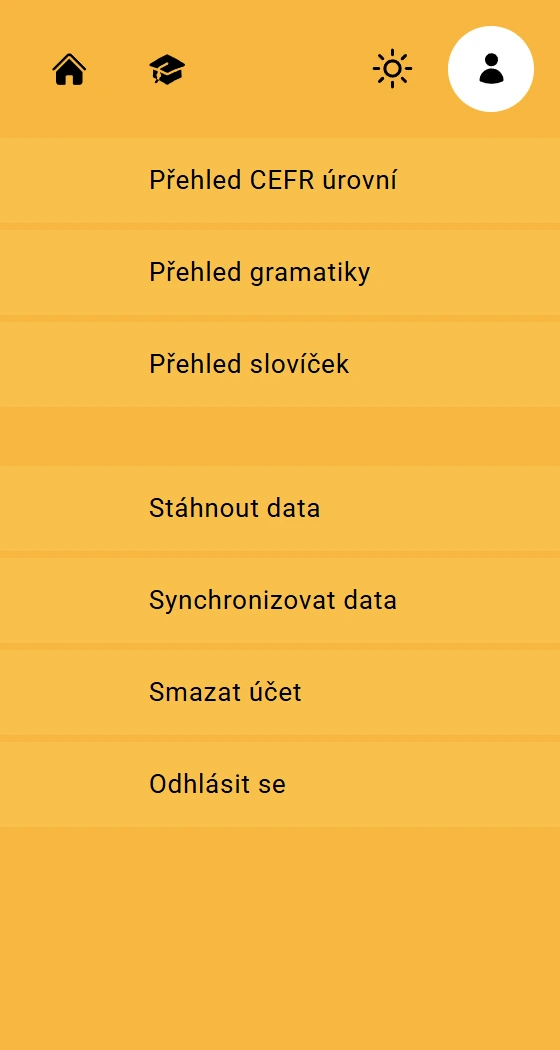
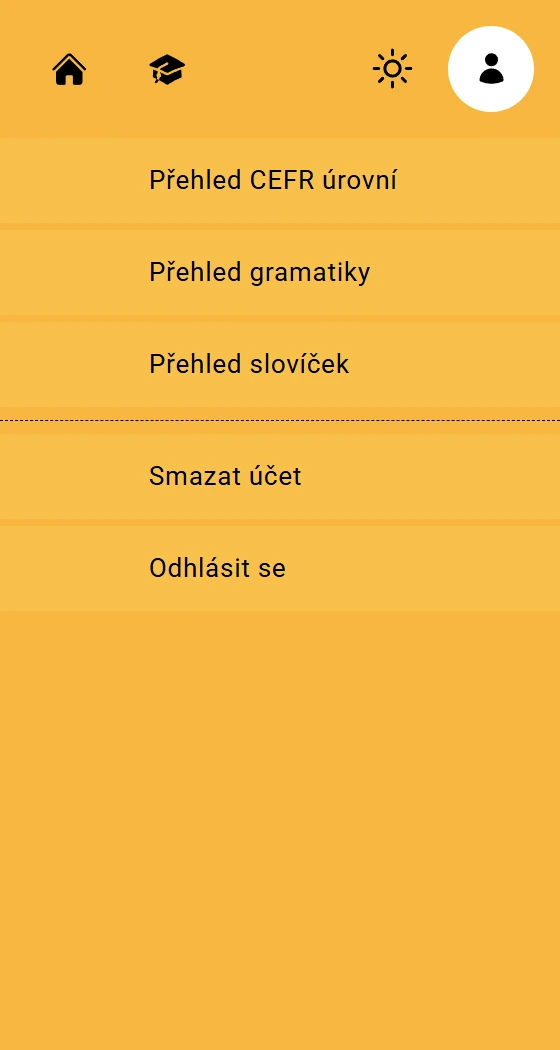
refactor: improve text clarity and formatting in Guide component

Changed region(s): [[0.2732, 0.4267, 0.7286, 0.579], [0.2732, 0.64, 0.5464, 0.6705], [0.2732, 0.7314, 0.5161, 0.7619]]

diff --git a/frontend/src/pages/Guide.tsx b/frontend/src/pages/Guide.tsx
@@ -12,15 +12,15 @@ export default function Guide(): JSX.Element {
       <h1 className="text-center">Návod</h1>
       <section>
         <p className="text-center">
-          Běžné učení jazyků používá příliš mnoho teorie a málo praxe. Tato aplikace je naopak
-          zaměřená na dril, na velké množství naposlouchaných a vyslovených opakování.
+          Běžné učení jazyků používá příliš mnoho teorie a málo praxe. Tato aplikace je zaměřena na
+          dril, na velké množství naposlouchaných a vyslovených opakování.
         </p>
       </section>
       <section>
         <h2>Používání</h2>
         <p className="text-center">
           Klikněte na tlačítko "Procvičovat" na horní liště a začněte procvičovat. Aplikace vám bude
-          nabízet slovíčka, slovní spojení či věty v ideálním pořadí pro učení. 
+          nabízet slovíčka, slovní spojení či věty v ideálním pořadí pro učení.
         </p>
       </section>
       <section>
@@ -28,11 +28,17 @@ export default function Guide(): JSX.Element {
         <Screenshot src="/screenshots/not-revealed.webp" alt="Ukázka kartičky před odhalením" />
         <p>
           <strong>"dnes / denní cíl"</strong>
-          <span>Doporučený denní počet opakování. Snažte se ho každý den splnit. Ostatní můžete pustit z hlavy.</span>
+          <span>
+            Doporučený denní počet opakování. Snažte se ho každý den splnit. Ostatní můžete pustit z
+            hlavy.
+          </span>
         </p>
         <p>
           <strong>"dokončit"</strong>
-          <span>Položka se nebude nabízet k dalšímu procvičování. Použijte k přeskočení položky, pokud ji již znáte z dřívějška.</span>
+          <span>
+            Položka se nebude nabízet k dalšímu procvičování. Použijte k přeskočení položky, pokud
+            ji již znáte z dřívějška.
+          </span>
         </p>
         <p>
           <strong>"gramatika"</strong>
@@ -44,7 +50,10 @@ export default function Guide(): JSX.Element {
         <Screenshot src="/screenshots/revealed.webp" alt="Ukázka kartičky po odhalení" />
         <p>
           <strong>"neznám"</strong>
-          <span>Sníží skóre dané položky. Položka se nabídne k dalšímu procvičování dříve. Pokud pro vás není znalost zcela automatická, dávejte vždy "neznám".</span>
+          <span>
+            Sníží skóre dané položky. Položka se nabídne k dalšímu procvičování dříve.{' '}
+            <strong>Pokud pro vás není znalost zcela automatická, dávejte vždy "neznám".</strong>
+          </span>
         </p>
         <p>
           <strong>"znám"</strong>
@@ -74,19 +83,10 @@ export default function Guide(): JSX.Element {
           </span>
         </p>
         <p>
-          <strong>"Stáhnout data"</strong>
-          <span>Stáhne všechna data do zařízení, abyste mohli aplikaci používat offline.</span>
-        </p>
-        <p>
-          <strong>"Opravit data"</strong>
-          <span>
-            Aplikace se běžně synchronizuje při každém spuštění, nebo alespoň jednou za 24 hodin. Tato manuální synchronizace je určena pouze pro opravu poškozených dat.
-          </span>
-        </p>
-        <p>
           <strong>"Smazat účet"</strong>
           <span>
-            Smaže uživatelský účet včetně všech vašich dat. V této fázi vývoje je smazání účtu nevratné a data budou nenávratně odstraněna.
+            Smaže uživatelský účet včetně všech vašich dat. V této fázi vývoje je smazání účtu
+            nevratné a data budou nenávratně odstraněna.
           </span>
         </p>
         <p>
@@ -97,19 +97,15 @@ export default function Guide(): JSX.Element {
       <section>
         <h2>Offline</h2>
         <p className="text-center">
-          Ve webové verzi aplikace je pro používání offline nejprve potřeba stáhnout všechna data do zařízení. To provedete v profilu tlačítkem "Stáhnout data".
-        </p>
-        <p className="text-center">
-          Ve stažené aplikaci jsou všechna data již obsažena a aplikace je plně funkční i bez připojení k internetu.
+          Aplikace je plně funkční offline. Data se ukládají do prohlížeče a synchronizují se s
+          cloudem, když jste online.
         </p>
       </section>
-            <section>
+      <section>
         <h2>Synchronizace</h2>
         <p className="text-center">
-          Vaše data se každý den synchronizují s cloudem, aby byla bezpečně zálohována.
-        </p>
-        <p className="text-center">
-          Aplikace není určena pro současné používání na více zařízeních. V takovém případě může dojít k neaktuálním datům.
+          Vaše data se každý den synchronizují s cloudem, aby byla bezpečně zálohována. Aplikace
+          není určena pro současné používání na více zařízeních.
         </p>
       </section>
     </div>
